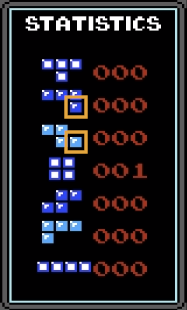
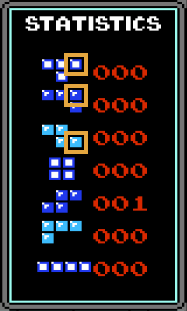
Update color capture in docs

diff --git a/public/docs/index.html b/public/docs/index.html
@@ -89,7 +89,7 @@ http://nestrischamps.herokuapp.com/view/LAYOUT_NAME/SECRET?bg=0
 <p>To produce frame into your own private room, visit <a href="https://nestrischamps.herokuapp.com/room/producer">https://nestrischamps.herokuapp.com/room/producer</a></p>
 
 
-<p>To attach yourself as a producer to another user's room (typically the link will be passed to you an invitation), the links will be of the form</p>
+<p>To attach yourself as a producer to another user's room (typically the link will be passed to you as an invitation), the links will be of the form</p>
 
 <p>https://nestrischamps.herokuapp.com/room/u/<b>TWITCH_USERNAME</b>/producer</p>
 
@@ -177,17 +177,18 @@ http://nestrischamps.herokuapp.com/view/LAYOUT_NAME/SECRET?bg=0
 
 <p>Reading colors from the frame helps matching the block colors when scanning the field.</p>
 
-<p>The are 2 colors to read: color1 and color2, and they should be read from the pieces stats on the left by selecting one block from the J piece, and one block from the Z piece</p>
+<p>The are 3 colors to read: color1, color2, and color3. They should be read from the pieces stats on the left by selecting one block from the T piece, J piece, and Z piece.</p>
 
 <p>The blocks should be chosen like this</p>
 
 <p><img src="./statistics_colors.png" /></p>
 
-<p>The selection should not include any black border</p>
+<p>The selection should not include any black border, but color1 should include the block's border. They should look like this</p>
 
 <uL>
 	<li><img src="./color_1.png" /></li>
 	<li><img src="./color_2.png" /></li>
+	<li><img src="./color_3.png" /></li>
 </uL>
 
 <h2>Field</h2>
